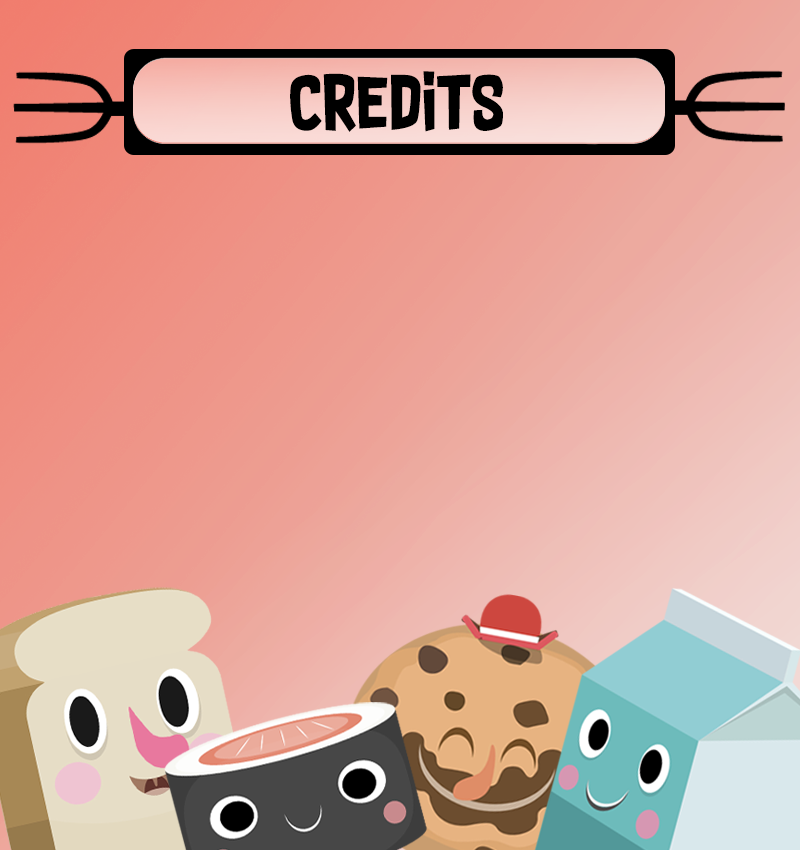
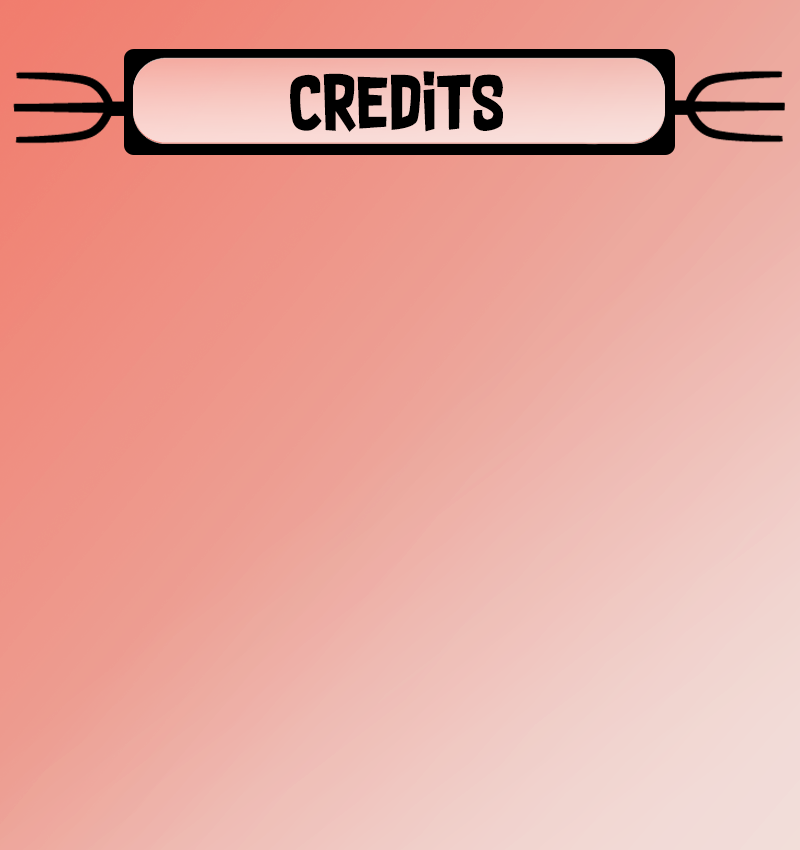
credits and control page work

Changed region(s): [[0.0, 0.6729, 1.0, 1.0]]

diff --git a/Game Files/js/main.js b/Game Files/js/main.js
@@ -165,15 +165,15 @@ Controls.prototype = {
         //controlText.anchor.setTo(0.5, 0.5);
         game.stage.backgroundColor = "#a37041";
 
-        controlText2 = game.add.bitmapText(game.world.centerX, 230, 'font', 'Table Manners is a two player competitve eating game\n\n' +
-            'The goal of the game is to eat more food than your brother', 28);
+        controlText2 = game.add.bitmapText(game.world.centerX, 230, 'font', 'Table Manners is a two player competitve eating game.\n\n' +
+            'The goal of the game is to eat more food than your sibling', 28);
         controlText2.anchor.setTo(0.5, 0.5);
 
-        controlText3 = game.add.bitmapText(game.world.centerX - 8, 330, 'font', 'The more telekinetic power you use the further your fork  \n\nwill go', 28);
+        controlText3 = game.add.bitmapText(178, 300, 'font', 'by any means necessary.', 28);
         controlText3.anchor.setTo(0.5, 0.5);
 
-        controlText3 = game.add.bitmapText(game.world.centerX - 8, 430, 'font', 'Stealing food is just another part of eating at the dinner \n\ntable', 28);
-        controlText3.anchor.setTo(0.5, 0.5);
+        controlText3 = game.add.bitmapText(16, 350, 'font', 'Eat more food in this 5 course meal experience to win.', 28);
+        //controlText3.anchor.setTo(0.5, 0.5);
 
         controlText4 = game.add.bitmapText(game.world.centerX, 800, 'font', 'Press Enter to go to main menu', 40);
         controlText4.anchor.setTo(0.5, 0.5);
@@ -183,6 +183,8 @@ Controls.prototype = {
         p2 = game.add.sprite(3 * (game.world.centerX / 2) - 25, 600, 'p2');
         p1.anchor.setTo(0.5, 0.5);
         p2.anchor.setTo(0.5, 0.5);
+        p1.scale.set(.35);
+        p2.scale.set(.35);
     },
     update: function() {
         if (game.input.keyboard.isDown(Phaser.Keyboard.ENTER)) {
@@ -222,7 +224,7 @@ Credits.prototype = {
         creditText7 = game.add.bitmapText(game.world.centerX + 140, 343, 'font', 'Design', 30);
         creditText7.anchor.setTo(0.5, 0.5);
 
-        creditText8 = game.add.bitmapText(game.world.centerX, 410, 'font', 'Special Thanks', 35);
+        creditText8 = game.add.bitmapText(game.world.centerX, 420, 'font', 'Special Thanks', 35);
         creditText8.anchor.setTo(0.5, 0.5);
 
         creditText6 = game.add.bitmapText(game.world.centerX - 220, 480, 'font', 'Kubbi', 35);
@@ -242,18 +244,59 @@ Credits.prototype = {
 
         creditText11 = game.add.bitmapText(game.world.centerX - 220, 630, 'font', 'Nick Forester', 35);
         creditText11.anchor.setTo(0.5, 0.5);
-        creditText12 = game.add.bitmapText(game.world.centerX + 140, 633, 'font', 'Always being there ', 30);
+        creditText12 = game.add.bitmapText(game.world.centerX + 140, 633, 'font', 'Consultant', 30);
         creditText12.anchor.setTo(0.5, 0.5);
 
-        creditText13 = game.add.bitmapText(game.world.centerX, 690, 'font', 'Nathan Altice and Elizabeth  Swensen', 35);
-        creditText13.anchor.setTo(0.5, 0.5);
-        creditText12 = game.add.bitmapText(game.world.centerX, 740, 'font', 'Without them none of this would have been possible ', 30);
-        creditText12.anchor.setTo(0.5, 0.5);
+        food = game.add.sprite(100, 715, 'food');
+        food2 = game.add.sprite(300, 715, 'food2');
+        food3 = game.add.sprite(500, 715, 'food3');
+        food4 = game.add.sprite(700, 715, 'food4');
+        food5 = game.add.sprite(900, 715, 'food5');
+        food6 = game.add.sprite(1100, 715, 'food6');
+        food.anchor.setTo(0.5, 0.5);
+        food2.anchor.setTo(0.5, 0.5);
+        food3.anchor.setTo(0.5, 0.5);
+        food4.anchor.setTo(0.5, 0.5);
+        food5.anchor.setTo(0.5, 0.5);
+        food6.anchor.setTo(0.5, 0.5);
+        food.scale.set(0.8);
+        food2.scale.set(0.8);
+        food3.scale.set(0.8);
+        food4.scale.set(0.8);
+        food5.scale.set(0.8);
+        food6.scale.set(0.8);
+
 
     },
     update: function() {
         if (game.input.keyboard.isDown(Phaser.Keyboard.ENTER)) {
             game.state.start('MainMenu');
+        }
+
+        food.x -= 1;
+        food2.x -= 1;
+        food3.x -= 1;
+        food4.x -= 1;
+        food5.x -= 1;
+        food6.x -= 1;
+
+        if (food.x <= -100) {
+            food.x = 1100;
+        }
+        if (food2.x <= -100) {
+            food2.x = 1100;
+        }
+        if (food3.x <= -100) {
+            food3.x = 1100;
+        }
+        if (food4.x <= -100) {
+            food4.x = 1100;
+        }
+        if (food5.x <= -100) {
+            food5.x = 1100;
+        }
+        if (food6.x <= -100) {
+            food6.x = 1100;
         }
     }
 }
@@ -363,8 +406,8 @@ Loading.prototype = {
         game.load.image('food6', 'cookie.png');
         game.load.image('barTop', 'PowerBarTop.png');
         game.load.image('barBottom', 'PowerBarBottom.png');
-        game.load.image('p1', 'P1_instructions.png');
-        game.load.image('p2', 'P2_instructions.png');
+        game.load.image('p1', 'P1_controls.png');
+        game.load.image('p2', 'P2_controls.png');
 
     },
     create: function() {
@@ -456,7 +499,7 @@ Round.prototype = {
         powerText2 = game.add.bitmapText(490, 750, 'font', 'Telekinetic Power', 30);
         WinText = game.add.bitmapText(16, 60, 'font', 'Wins: ', 32);
         WinText2 = game.add.bitmapText(600, 60, 'font', 'Wins: ', 32);
-        RoundText = game.add.bitmapText(400, 350, 'font', 'Round ' + (roundCount + 1), 120);
+        RoundText = game.add.bitmapText(400, 350, 'font', 'Course ' + (roundCount + 1), 120);
 
         barBot = game.add.sprite(525, 790, 'barBottom');
         barBot2 = game.add.sprite(65, 790, 'barBottom');
@@ -1017,10 +1060,10 @@ GameOver.prototype = {
         }
 
         background = game.add.sprite(0, 0, 'endScreen');
-        GameOver = game.add.bitmapText(game.world.centerX, 200, 'font', 'Game Over', 80);
-        GameOver2 = game.add.bitmapText(game.world.centerX, 425, 'font', 'Press R to Restart', 45);
+        GameOver = game.add.bitmapText(game.world.centerX, 200, 'font', 'Meal Over', 80);
+        GameOver2 = game.add.bitmapText(game.world.centerX, 425, 'font', 'Press R to start a new meal', 45);
         GameOver3 = game.add.bitmapText(game.world.centerX, 500, 'font', 'Press Enter to go to the Main Menu', 45);
-        GameOver4 = game.add.bitmapText(game.world.centerX, 575, 'font', 'Press C to see the CREDITS', 45);
+        GameOver4 = game.add.bitmapText(game.world.centerX, 575, 'font', 'Press C to see the all the Cooks', 45);
 
         if (p1_wins > p2_wins) {
             GameOver5 = game.add.bitmapText(game.world.centerX, 300, 'font', 'Player 1 WINS!', 80);
